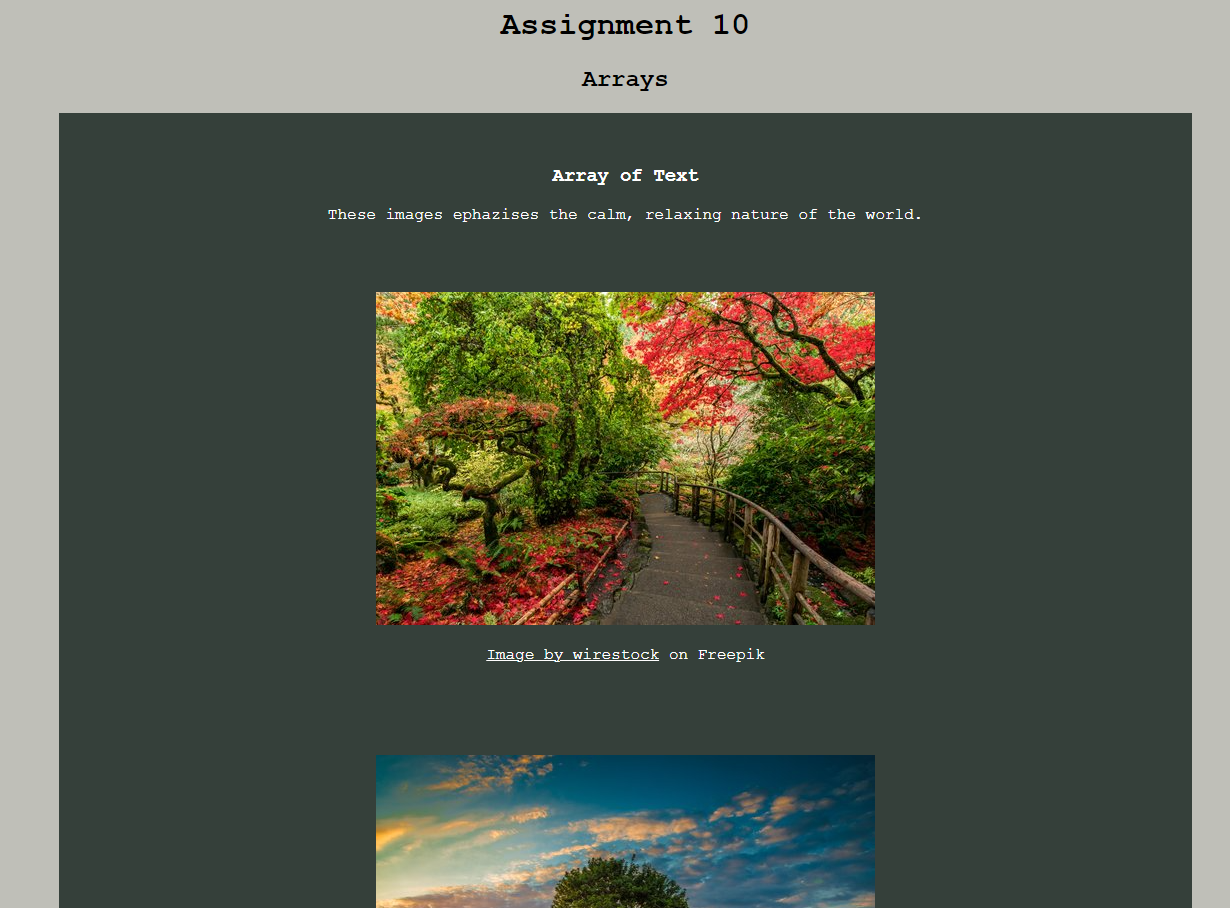
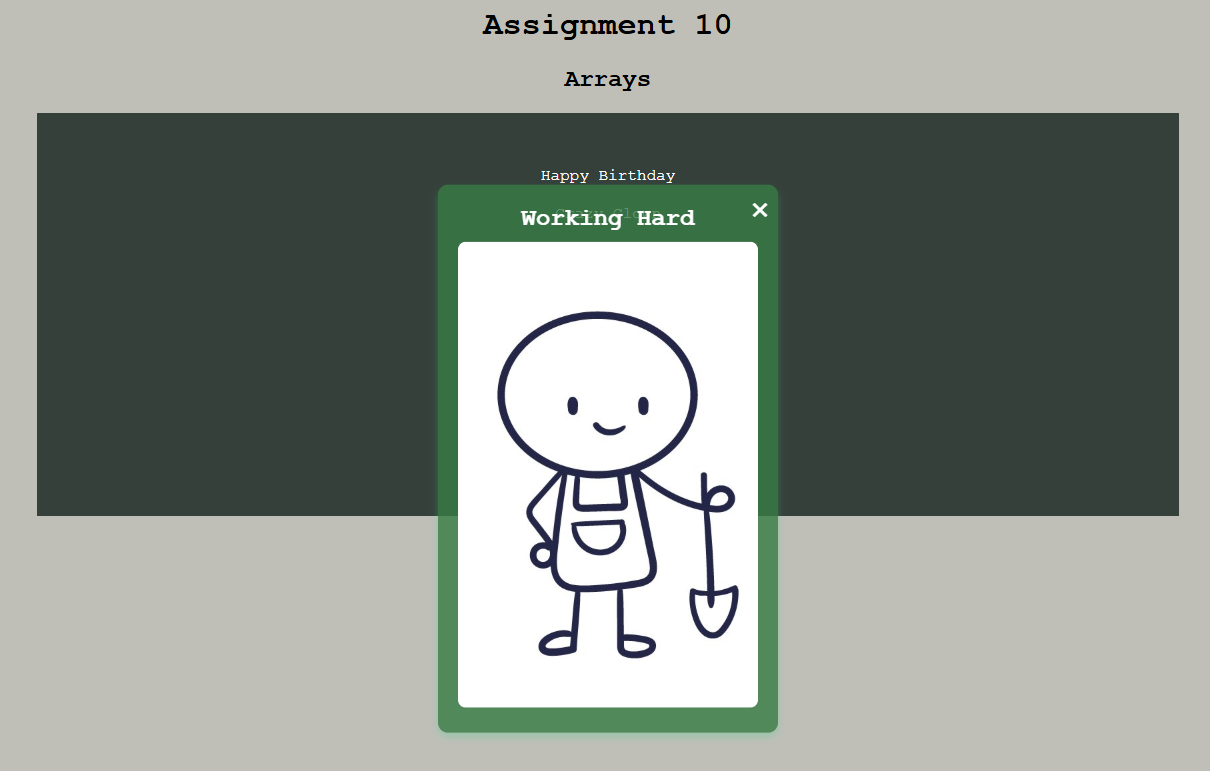
arrays update main

diff --git a/index.html b/index.html
@@ -115,6 +115,23 @@
                 </div>
               </div> 
 
+              
+              <div class="assignment-card">
+                <div class="assignment-card-info">
+                <a href="csce242-assignments/10/index.html">
+                <div class="card-title">
+                  <h2>Assignment 10 - Arrays</h2>
+                </div>
+                <div class="assignment-image">
+                  <img src="/images/assignment10.png" alt="assignment 10 image">
+                </div>
+                  <div class="assignment-description">
+                    <p>Using javascript to run a loop through arrays data. Created popup for each array item.</p>
+                  </div>
+              </a>
+                </div>
+              </div> 
+
           </section>
         </section>
       </div>
